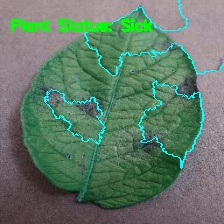
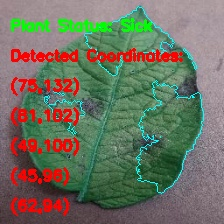
new commit

diff --git a/Lime.py b/Lime.py
@@ -9,6 +9,13 @@ from skimage.segmentation import mark_boundaries
 # Load your trained CNN model
 model = load_model('best_model.h5')
 
+
+def find_affected_areas(heatmap, threshold=128):
+    ret, thresh_heatmap = cv2.threshold(heatmap, threshold, 255, cv2.THRESH_BINARY)
+    contours, _ = cv2.findContours(thresh_heatmap, cv2.RETR_EXTERNAL, cv2.CHAIN_APPROX_SIMPLE)
+    return contours
+
+
 def preprocess_image(img_path, input_shape):
     img = image.load_img(img_path, target_size=input_shape)
     x = image.img_to_array(img)
@@ -16,29 +23,36 @@ def preprocess_image(img_path, input_shape):
     x = x / 255.0
     return x
 
+
 def segment_plant(image, lower_hsv, upper_hsv):
     hsv_image = cv2.cvtColor(image, cv2.COLOR_BGR2HSV)
     mask = cv2.inRange(hsv_image, lower_hsv, upper_hsv)
     masked_image = cv2.bitwise_and(image, image, mask=mask)
     return masked_image, mask
 
+
 def apply_mask_to_heatmap(heatmap, mask):
     heatmap_uint8 = (heatmap * 255).astype(np.uint8)
     masked_heatmap = cv2.bitwise_and(heatmap_uint8, heatmap_uint8, mask=mask)
     return masked_heatmap
 
+
 # Create a LIME explainer
 explainer = lime_image.LimeImageExplainer()
+
 
 def lime_heatmap(input_model, image_array, num_samples=1000, hide_color=None):
     def model_predict(images):
         return input_model.predict(images)
 
-    explanation = explainer.explain_instance(image_array[0], model_predict, top_labels=2, hide_color=hide_color, num_samples=num_samples)
-    temp, mask = explanation.get_image_and_mask(explanation.top_labels[0], positive_only=True, num_features=5, hide_rest=False)
+    explanation = explainer.explain_instance(image_array[0], model_predict, top_labels=2, hide_color=hide_color,
+                                             num_samples=num_samples)
+    temp, mask = explanation.get_image_and_mask(explanation.top_labels[0], positive_only=True, num_features=5,
+                                                hide_rest=False)
     return mask
 
-input_image_path = '04877a47-d7e8-461d-b943-00099f3a2a95___Com.G_TgS_FL 0838.jpg'
+
+input_image_path = '02282fee-ba3f-460e-91e0-630204ab96c2___RS_LB 5031.jpg'
 original_image = cv2.imread(input_image_path)
 input_shape = model.input_shape[1:3]
 preprocessed_image = preprocess_image(input_image_path, input_shape)
@@ -52,25 +66,46 @@ segmented_image, plant_mask = segment_plant(original_image, lower_hsv, upper_hsv
 prediction = model.predict(preprocessed_image)
 label = 'Sick' if np.argmax(prediction) == 0 else 'Healthy'
 
-# Apply LIME to generate the heatmap
-heatmap = lime_heatmap(model, preprocessed_image)
 
-# Resize the plant mask to match the heatmap size
-resized_plant_mask = cv2.resize(plant_mask, (heatmap.shape[1], heatmap.shape[0]))
+if label == 'Sick':
+    # Apply LIME to generate the heatmap
+    heatmap = lime_heatmap(model, preprocessed_image)
 
-# Apply the resized plant mask to the LIME heatmap
-masked_heatmap = apply_mask_to_heatmap(heatmap, resized_plant_mask)
+    # Resize the plant mask to match the heatmap size
+    resized_plant_mask = cv2.resize(plant_mask, (heatmap.shape[1], heatmap.shape[0]))
 
-# Overlay the masked heatmap on the original image
-original_image_resized = cv2.resize(original_image, input_shape[::-1])  # Resize the image
-original_image_rgb = cv2.cvtColor(original_image_resized, cv2.COLOR_BGR2RGB).astype(np.float32) / 255.0
-overlayed_image = mark_boundaries(original_image_rgb, masked_heatmap).astype(np.float32)
-overlayed_image = (overlayed_image * 255).astype(np.uint8)
+    # Apply the resized plant mask to the LIME heatmap
+    masked_heatmap = apply_mask_to_heatmap(heatmap, resized_plant_mask)
+
+    # Find the affected areas in the heatmap
+    affected_areas = find_affected_areas(masked_heatmap)
+
+    # Overlay the masked heatmap on the original image
+    original_image_resized = cv2.resize(original_image, input_shape[::-1])
+    original_image_rgb = cv2.cvtColor(original_image_resized, cv2.COLOR_BGR2RGB).astype(np.float32) / 255.0
+    overlayed_image = mark_boundaries(original_image_rgb, masked_heatmap).astype(np.float32)
+    overlayed_image = (overlayed_image * 255).astype(np.uint8)
+
+else:
+    original_image_resized = cv2.resize(original_image, input_shape[::-1])  # Resize the image
+    overlayed_image = original_image_resized
 
 # Add text to the image
 text_scale = 0.5  # Adjust the text size
 text = f"Plant Status: {label}"
 cv2.putText(overlayed_image, text, (10, 30), cv2.FONT_HERSHEY_SIMPLEX, text_scale, (0, 255, 0), 2)
+
+# Print the detected coordinates text
+coordinates_text = "Detected Coordinates:"
+cv2.putText(overlayed_image, coordinates_text, (10, 60), cv2.FONT_HERSHEY_SIMPLEX, text_scale, (0, 0, 255), 2)
+
+# Print each coordinate on a new line
+y_offset = 90
+for cnt in affected_areas:
+    x, y, _, _ = cv2.boundingRect(cnt)
+    coordinate = f"({x},{y})"
+    cv2.putText(overlayed_image, coordinate, (10, y_offset), cv2.FONT_HERSHEY_SIMPLEX, text_scale, (0, 0, 255), 2)
+    y_offset += 30
 
 # Save the output image
 cv2.imwrite('image_with_lime_heatmap.jpg', overlayed_image)

diff --git a/testmodel.py b/testmodel.py
@@ -6,7 +6,7 @@ from tensorflow.keras.preprocessing.image import ImageDataGenerator
 
 
 # Load the saved model
-model = load_model('sick_vs_healthy_model.h5')
+model = load_model('best_model.h5')
 img_width, img_height = 150, 150
 
 # Evaluate the model on the test dataset
